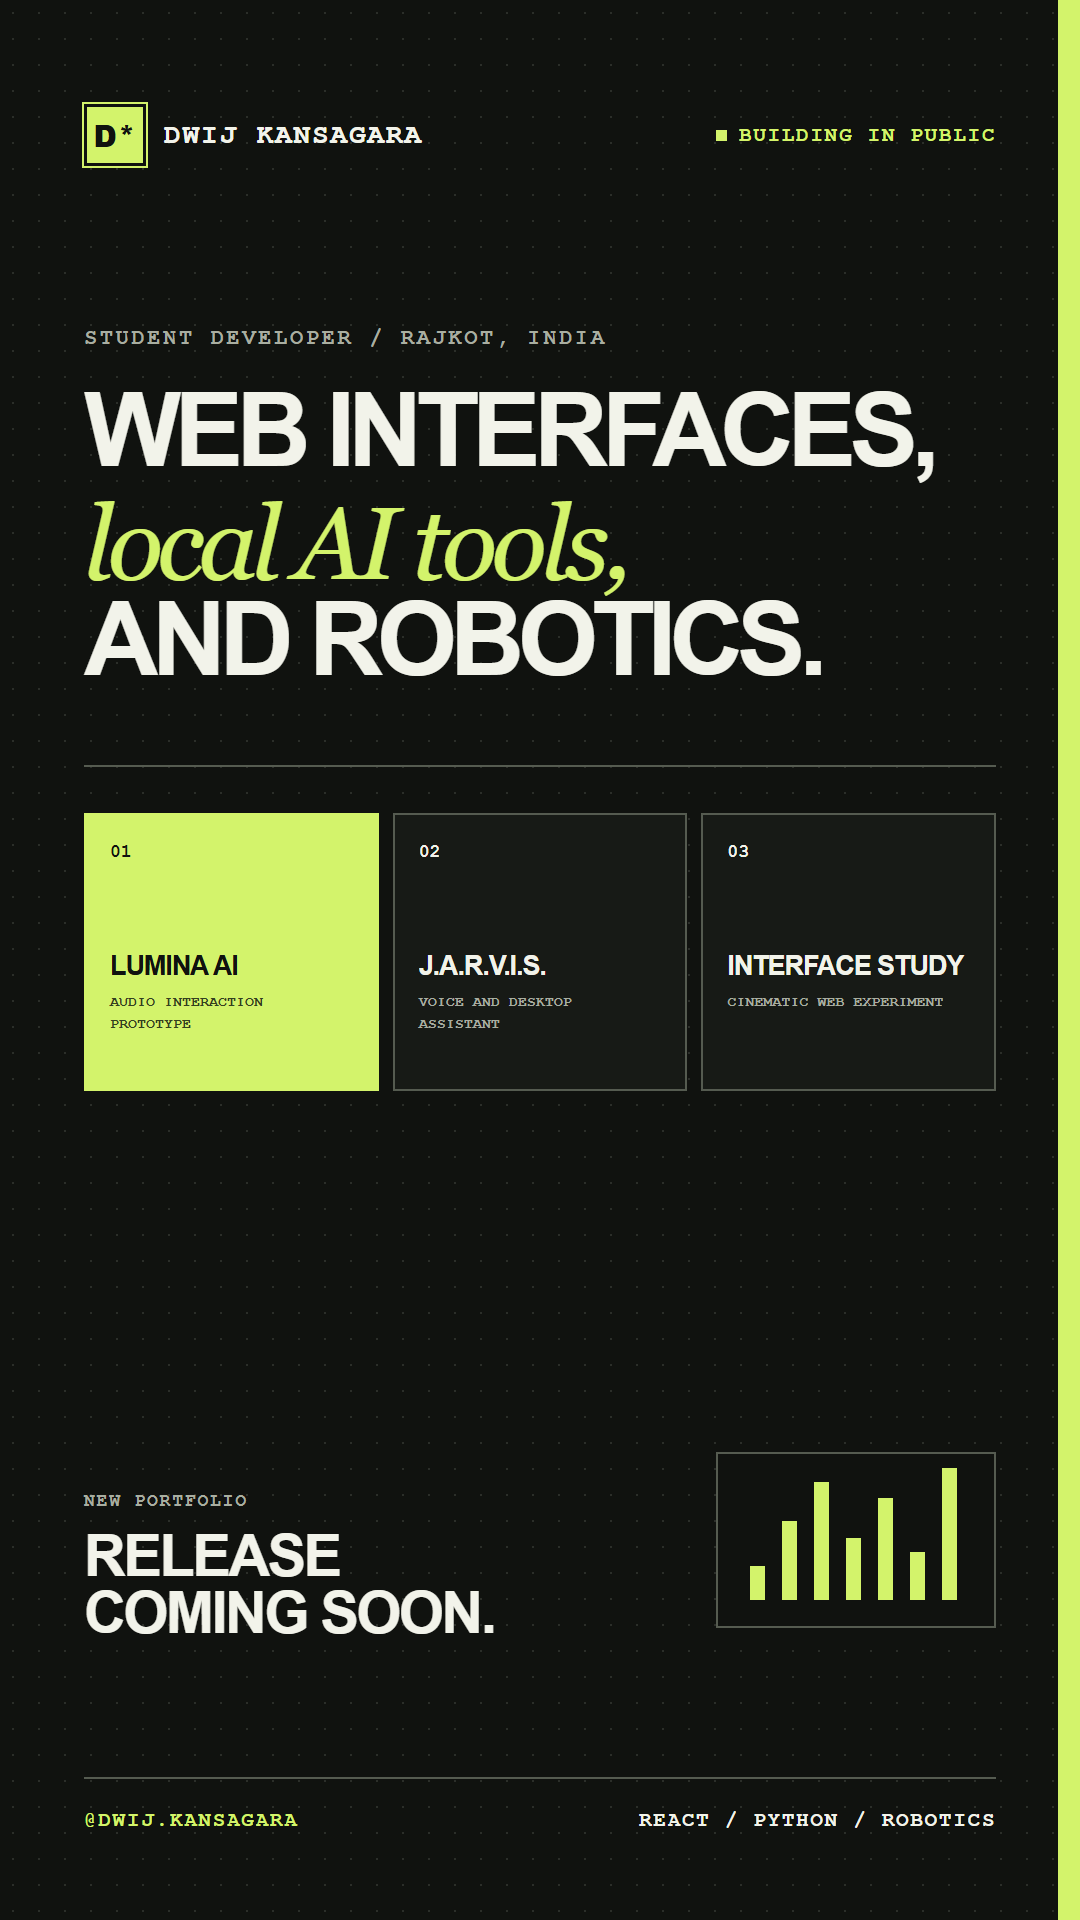
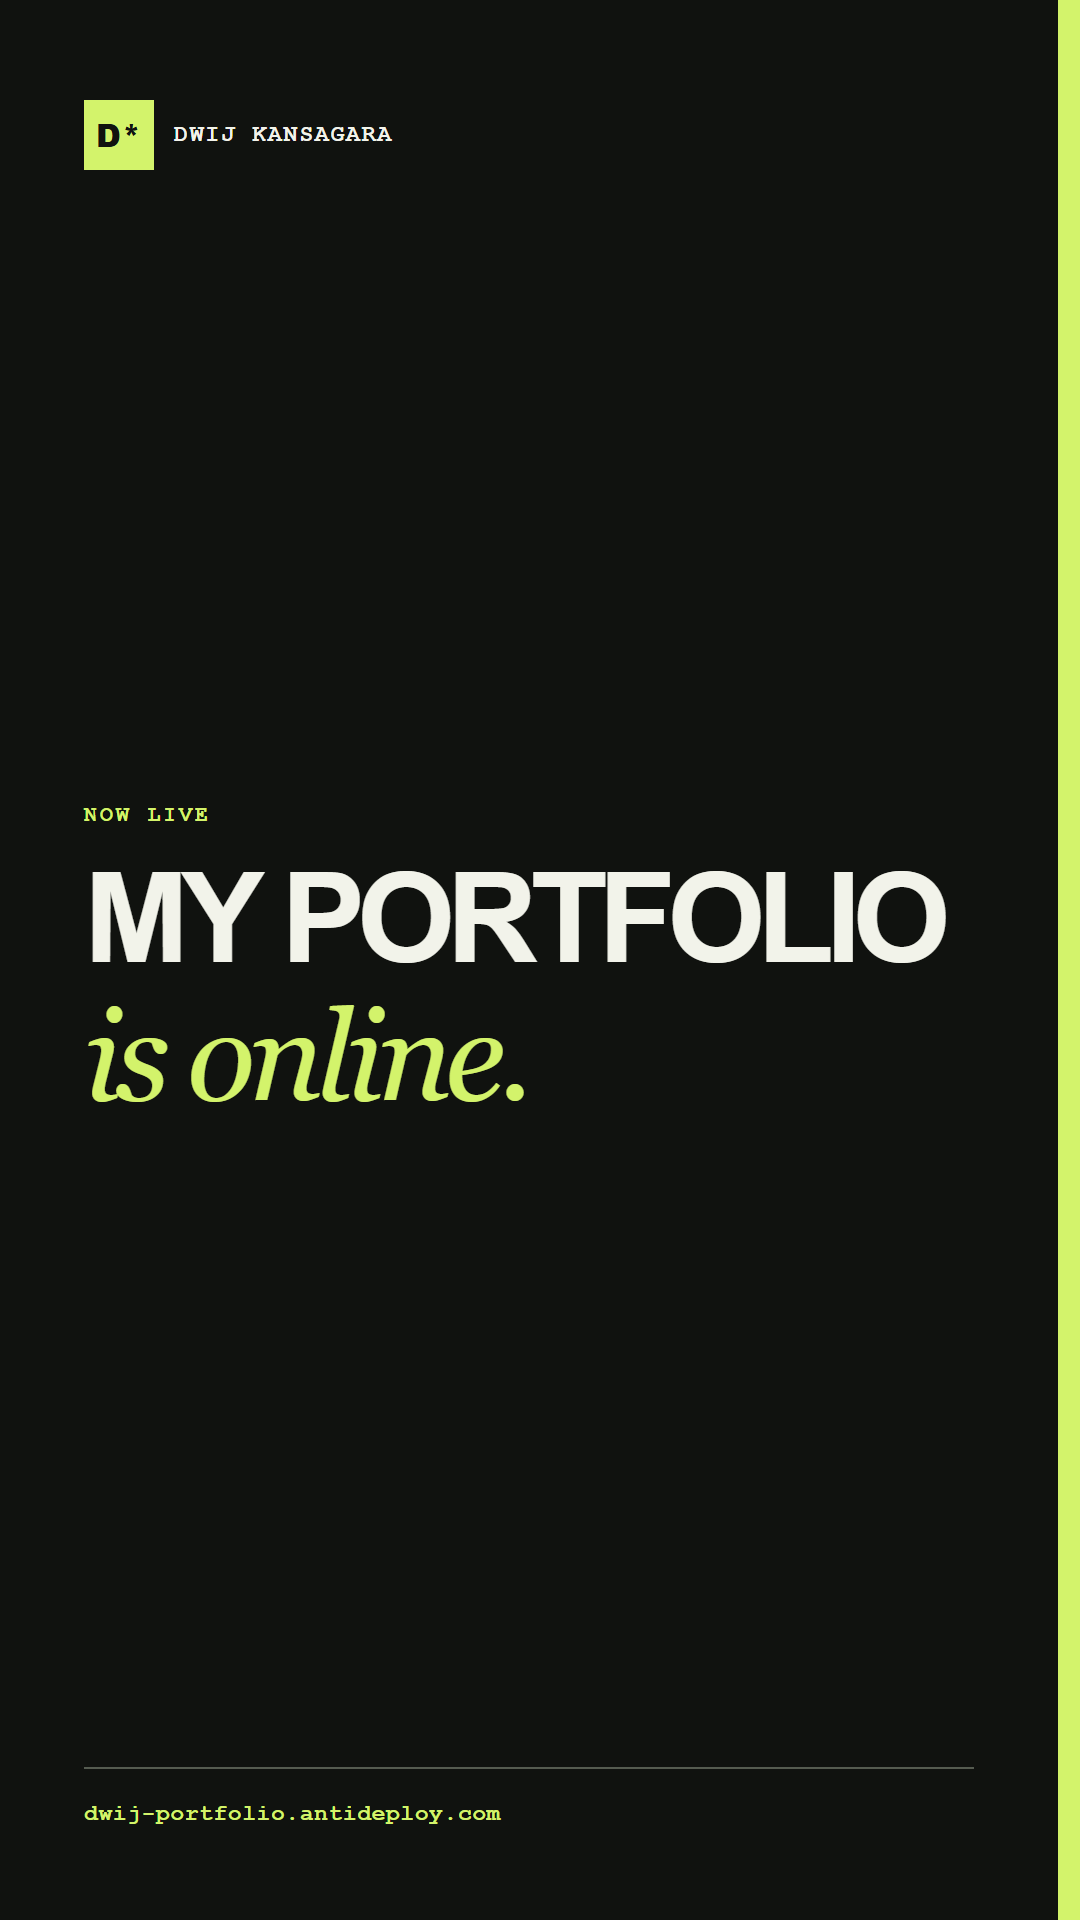
Simplify portfolio launch story

diff --git a/social/instagram-story.html b/social/instagram-story.html
@@ -7,157 +7,22 @@
   <style>
     * { box-sizing: border-box; }
     html, body { margin: 0; width: 1080px; height: 1920px; overflow: hidden; }
-    body {
-      background: #10120f;
-      color: #f2f3ea;
-      font-family: Arial, Helvetica, sans-serif;
-    }
-    .story {
-      position: relative;
-      width: 1080px;
-      height: 1920px;
-      padding: 104px 84px 88px;
-      overflow: hidden;
-      isolation: isolate;
-    }
-    .story::before {
-      content: "";
-      position: absolute;
-      inset: 0;
-      z-index: -2;
-      opacity: .12;
-      background-image: radial-gradient(#f2f3ea 1.2px, transparent 1.2px);
-      background-size: 26px 26px;
-    }
-    .rail {
-      position: absolute;
-      top: 0;
-      right: 0;
-      width: 22px;
-      height: 100%;
-      background: #d3f36b;
-    }
-    .topline, .footer {
-      display: flex;
-      justify-content: space-between;
-      align-items: center;
-      font-family: "Courier New", monospace;
-      font-size: 21px;
-      font-weight: 700;
-      letter-spacing: .08em;
-      text-transform: uppercase;
-    }
-    .brand {
-      display: flex;
-      align-items: center;
-      gap: 18px;
-      font-size: 28px;
-    }
-    .mark {
-      display: grid;
-      place-items: center;
-      width: 62px;
-      height: 62px;
-      background: #d3f36b;
-      color: #10120f;
-      border: 3px solid #10120f;
-      outline: 2px solid #d3f36b;
-      font: 900 30px/1 Arial, sans-serif;
-    }
-    .status { color: #d3f36b; }
-    .status::before { content: ""; display: inline-block; width: 11px; height: 11px; margin-right: 12px; background: #d3f36b; }
-    .hero { margin-top: 158px; }
-    .eyebrow {
-      margin: 0 0 28px;
-      color: #a9aea1;
-      font: 700 22px/1.4 "Courier New", monospace;
-      letter-spacing: .12em;
-      text-transform: uppercase;
-    }
-    h1 {
-      max-width: 900px;
-      margin: 0;
-      font-size: 103px;
-      line-height: .94;
-      letter-spacing: -.065em;
-      text-transform: uppercase;
-    }
-    h1 em {
-      display: block;
-      margin-top: 16px;
-      color: #d3f36b;
-      font-family: Georgia, "Times New Roman", serif;
-      font-weight: 400;
-      text-transform: none;
-      letter-spacing: -.055em;
-    }
-    .rule { width: 100%; height: 2px; margin: 76px 0 46px; background: #555b50; }
-    .projects { display: grid; grid-template-columns: 1fr 1fr 1fr; gap: 14px; }
-    .project {
-      min-height: 278px;
-      padding: 28px 24px;
-      border: 2px solid #555b50;
-      background: #171a16;
-    }
-    .project.featured { border-color: #d3f36b; background: #d3f36b; color: #10120f; }
-    .project .number { font: 700 18px/1 "Courier New", monospace; }
-    .project h2 { margin: 92px 0 12px; font-size: 27px; line-height: 1; letter-spacing: -.04em; }
-    .project p { margin: 0; color: #a9aea1; font: 700 15px/1.45 "Courier New", monospace; text-transform: uppercase; }
-    .project.featured p { color: #34401f; }
-    .signal {
-      position: absolute;
-      right: 84px;
-      bottom: 292px;
-      width: 280px;
-      height: 176px;
-      border: 2px solid #555b50;
-      background: #10120f;
-      overflow: hidden;
-    }
-    .signal span { position: absolute; bottom: 26px; width: 15px; background: #d3f36b; }
-    .signal span:nth-child(1) { left: 32px; height: 34px; }
-    .signal span:nth-child(2) { left: 64px; height: 79px; }
-    .signal span:nth-child(3) { left: 96px; height: 118px; }
-    .signal span:nth-child(4) { left: 128px; height: 62px; }
-    .signal span:nth-child(5) { left: 160px; height: 102px; }
-    .signal span:nth-child(6) { left: 192px; height: 48px; }
-    .signal span:nth-child(7) { left: 224px; height: 132px; }
-    .release { position: absolute; left: 84px; bottom: 278px; }
-    .release small { display: block; color: #a9aea1; font: 700 18px/1.4 "Courier New", monospace; letter-spacing: .1em; text-transform: uppercase; }
-    .release strong { display: block; max-width: 520px; margin-top: 14px; font-size: 58px; line-height: .98; letter-spacing: -.045em; text-transform: uppercase; }
-    .footer { position: absolute; left: 84px; right: 84px; bottom: 88px; padding-top: 30px; border-top: 2px solid #555b50; }
-    .handle { color: #d3f36b; }
+    body { background: #10120f; color: #f2f3ea; font-family: Arial, Helvetica, sans-serif; }
+    main { position: relative; width: 1080px; height: 1920px; padding: 100px 84px 90px; border-right: 22px solid #d3f36b; }
+    header { display: flex; align-items: center; gap: 20px; font: 700 23px/1 "Courier New", monospace; letter-spacing: .08em; text-transform: uppercase; }
+    .mark { display: grid; place-items: center; width: 70px; height: 70px; background: #d3f36b; color: #10120f; font: 900 32px/1 Arial, sans-serif; }
+    section { position: absolute; top: 50%; left: 84px; right: 84px; transform: translateY(-50%); }
+    .label { margin: 0 0 34px; color: #d3f36b; font: 700 22px/1 "Courier New", monospace; letter-spacing: .12em; text-transform: uppercase; }
+    h1 { max-width: 880px; margin: 0; font-size: 126px; line-height: .92; letter-spacing: -.065em; text-transform: uppercase; }
+    h1 em { display: block; margin-top: 22px; color: #d3f36b; font-family: Georgia, "Times New Roman", serif; font-weight: 400; letter-spacing: -.05em; text-transform: none; }
+    footer { position: absolute; left: 84px; right: 84px; bottom: 90px; padding-top: 30px; border-top: 2px solid #555b50; color: #d3f36b; font: 700 23px/1.35 "Courier New", monospace; letter-spacing: .025em; }
   </style>
 </head>
 <body>
-  <main class="story" aria-label="Promotional story for Dwij Kansagara's developer portfolio">
-    <div class="rail" aria-hidden="true"></div>
-    <header class="topline">
-      <div class="brand"><span class="mark">d*</span><span>Dwij Kansagara</span></div>
-      <span class="status">Building in public</span>
-    </header>
-
-    <section class="hero">
-      <p class="eyebrow">Student developer / Rajkot, India</p>
-      <h1>Web interfaces,<em>local AI tools,</em>and robotics.</h1>
-    </section>
-
-    <div class="rule" aria-hidden="true"></div>
-
-    <section class="projects" aria-label="Selected projects">
-      <article class="project featured"><span class="number">01</span><h2>LUMINA AI</h2><p>Audio interaction prototype</p></article>
-      <article class="project"><span class="number">02</span><h2>J.A.R.V.I.S.</h2><p>Voice and desktop assistant</p></article>
-      <article class="project"><span class="number">03</span><h2>INTERFACE STUDY</h2><p>Cinematic web experiment</p></article>
-    </section>
-
-    <section class="release">
-      <small>New portfolio</small>
-      <strong>Release<br />coming soon.</strong>
-    </section>
-
-    <div class="signal" aria-hidden="true"><span></span><span></span><span></span><span></span><span></span><span></span><span></span></div>
-
-    <footer class="footer"><span class="handle">@dwij.kansagara</span><span>React / Python / Robotics</span></footer>
+  <main aria-label="Dwij Kansagara portfolio launch story">
+    <header><span class="mark">d*</span><span>Dwij Kansagara</span></header>
+    <section><p class="label">Now live</p><h1>My portfolio<em>is online.</em></h1></section>
+    <footer>dwij-portfolio.antideploy.com</footer>
   </main>
 </body>
 </html>
